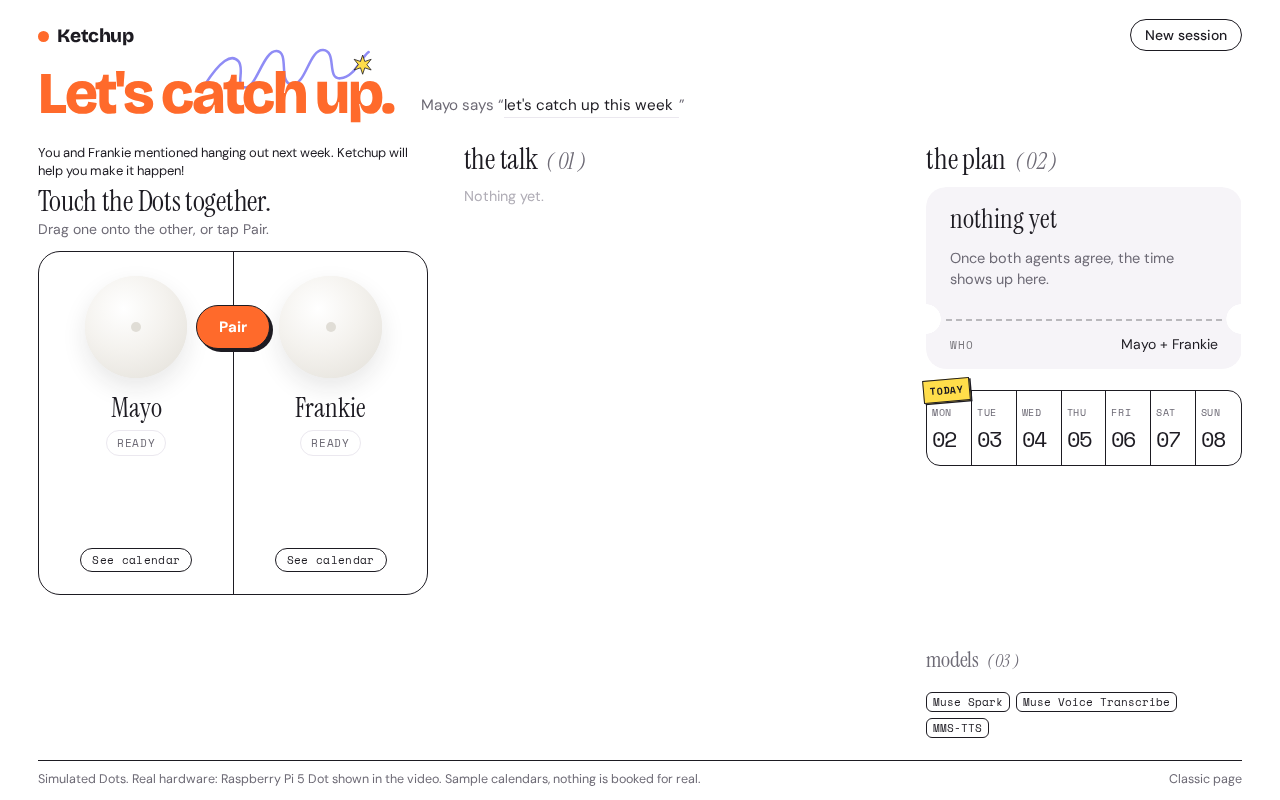
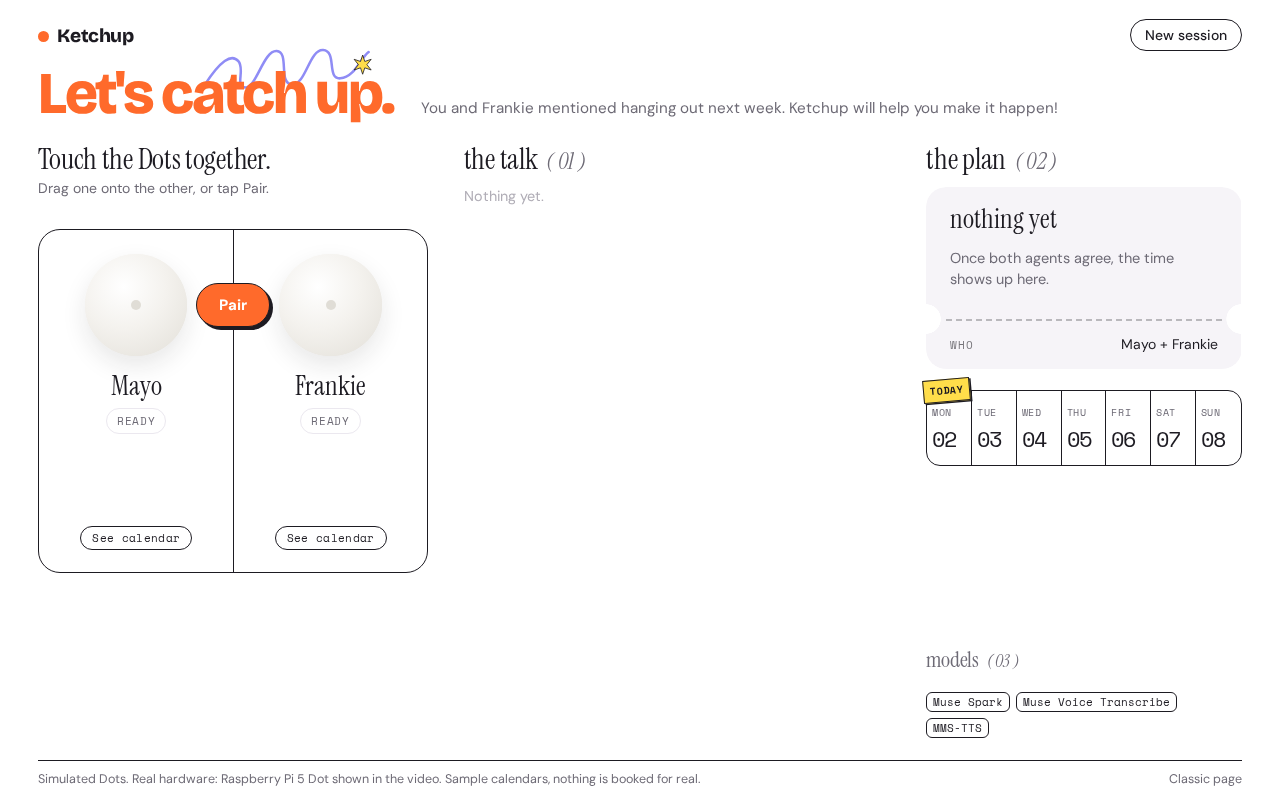
Simulator: intro line replaces the Mayo says phrase; agents plan for next week

diff --git a/web/sim.html b/web/sim.html
@@ -44,7 +44,6 @@ h1{font-family:var(--display);font-size:1em;line-height:.9;letter-spacing:-.045e
 .col{min-width:0;display:flex;flex-direction:column}
 .status{min-height:62px}
 .status .now{display:block;font-family:var(--serif);font-size:30px;line-height:1.05;letter-spacing:-.01em}
-.status .intro{display:block;font-size:13px;line-height:1.35;color:var(--ink);margin-bottom:6px;max-width:34em;text-wrap:pretty}
 .status .hint{display:block;color:var(--soft);font-size:14px;margin-top:4px;line-height:1.35}
 
 /* section titles, ticket-style: "the plan ( 02 )" */
@@ -337,12 +336,12 @@ footer .link{font-size:12.5px;padding:0}
     <svg class="squiggle" viewBox="0 0 340 120" fill="none" aria-hidden="true"><path d="M8 84c30-46 52-62 66-46s-8 52 14 52 36-74 62-72 2 64 30 66 34-70 62-68 6 58 34 56 40-40 56-52" stroke="#8f8cf5" stroke-width="5" stroke-linecap="round" stroke-linejoin="round"/></svg>
     <svg class="star" viewBox="0 0 40 40" aria-hidden="true"><path d="M20 2l4 12 12-4-8 10 8 10-12-4-4 12-4-12-12 4 8-10-8-10 12 4z" fill="#ffdd4a" stroke="#1d1b22" stroke-width="1.5" stroke-linejoin="round"/></svg>
     <h1>Let's catch up.</h1>
-    <div class="plan">Mayo says “<input id="phrase" value="let's catch up this week" maxlength="120" aria-label="What Mayo says">”</div>
+    <div class="plan">You and Frankie mentioned hanging out next week. Ketchup will help you make it happen!</div>
   </section>
 
   <main class="stage">
     <div class="col">
-      <div class="status"><span class="intro" id="intro">You and Frankie mentioned hanging out next week. Ketchup will help you make it happen!</span><span class="now" id="now">Touch the Dots together.</span><span class="hint" id="hint">Drag one onto the other, or tap Pair.</span></div>
+      <div class="status"><span class="now" id="now">Touch the Dots together.</span><span class="hint" id="hint">Drag one onto the other, or tap Pair.</span></div>
       <section class="pair" id="stage">
         <button class="btn orange pairbtn" id="tapbtn">Pair</button>
         <div class="side" id="side-mayo">
@@ -429,10 +428,6 @@ function pair() {
   setTimeout(() => { KEYS.forEach(k => { $("#peb-" + k).style.transform = ""; $("#peb-" + k).classList.remove("flying"); }); start(); }, 520);
 }
 $("#tapbtn").onclick = pair;
-const measure = document.createElement("canvas").getContext("2d");
-const fitPhrase = () => { const i = $("#phrase"); measure.font = getComputedStyle(i).font; i.style.width = Math.ceil(measure.measureText(i.value || "something").width + 6) + "px"; };
-document.fonts && document.fonts.ready.then(fitPhrase);
-$("#phrase").addEventListener("input", fitPhrase); fitPhrase();
 
 // ---- session ----
 async function api(path, opts = {}) {
@@ -444,7 +439,7 @@ const post = (path, data) => api(path, {method: "POST", headers: {"Content-Type"
 async function start() {
   calSeen = false; errs = {mayo: "", frankie: "", global: ""};
   $("#tapbtn").disabled = true;
-  const r = await post("/sim/api/tap", {phrase: $("#phrase").value, replaces: sid});
+  const r = await post("/sim/api/tap", {phrase: "let's hang out next week", replaces: sid});
   $("#tapbtn").disabled = false;
   if (!r.ok) { errs.global = r.body.error || "Couldn't start. Try again in a moment."; return render(); }
   sid = r.body.session_id; lineCount = 0; typeOpen = {mayo: false, frankie: false};
@@ -593,10 +588,8 @@ function render() {
   }
   if (errs.global) hint = errs.global;
   $("#now").textContent = now; $("#hint").textContent = hint;
-  $("#intro").style.display = sid ? "none" : "";  // the intro line is for the start screen only
   $("#tapbtn").style.display = sid && !isOver() ? "none" : "";
   $("#tapbtn").textContent = sid ? "Pair again" : "Pair";
-  $("#phrase").disabled = !!sid && !isOver();
   $("#skip").style.display = st === "pencilled_in" ? "" : "none";
   nudgeCal(); renderCard(); renderCalls();
 }
@@ -648,7 +641,7 @@ function fitCalls() {
   for (const r of rows) { r.classList.add("hid"); n++; more.innerHTML = `<td colspan="3">+ ${n} earlier</td>`; if (!over()) break; }
 }
 document.addEventListener("click", e => { const box = $("#calls-box"); if (box.open && !box.contains(e.target)) box.open = false; });
-addEventListener("resize", () => { fitPhrase(); fitNotes(); renderCalls(); });
+addEventListener("resize", () => { fitNotes(); renderCalls(); });
 
 // ---- week: big numerals, the hold as one block ----
 async function loadWeek() {
